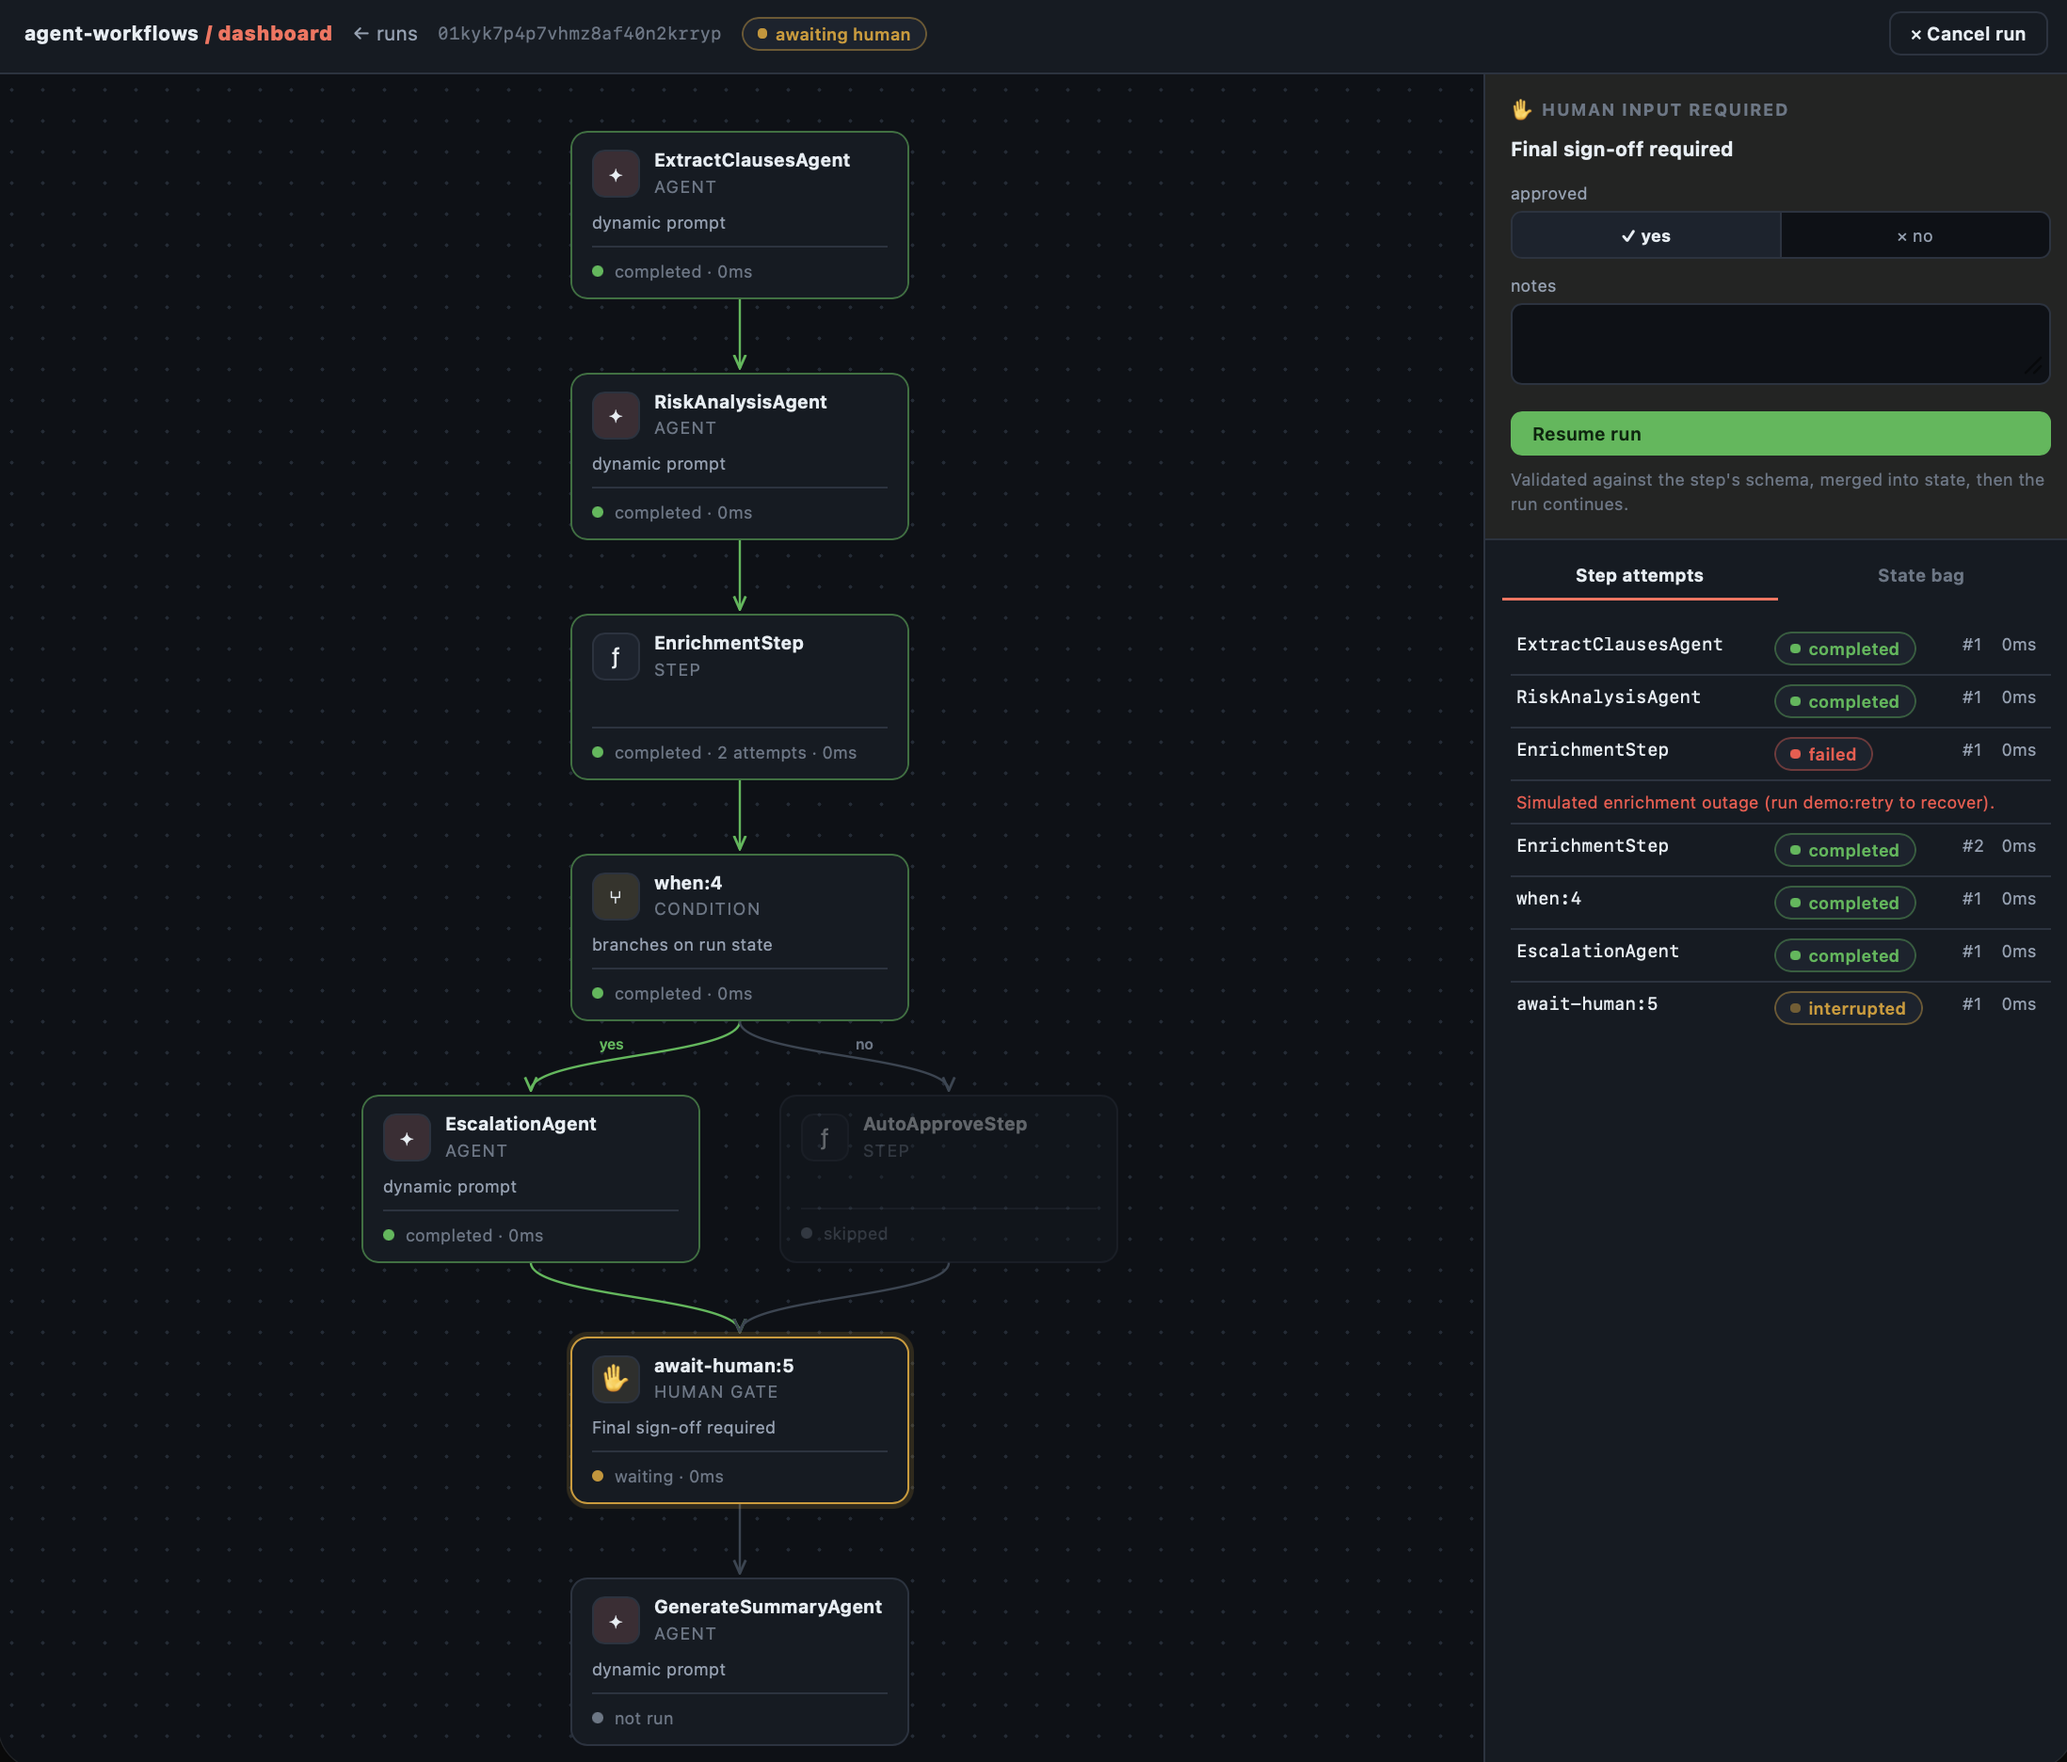
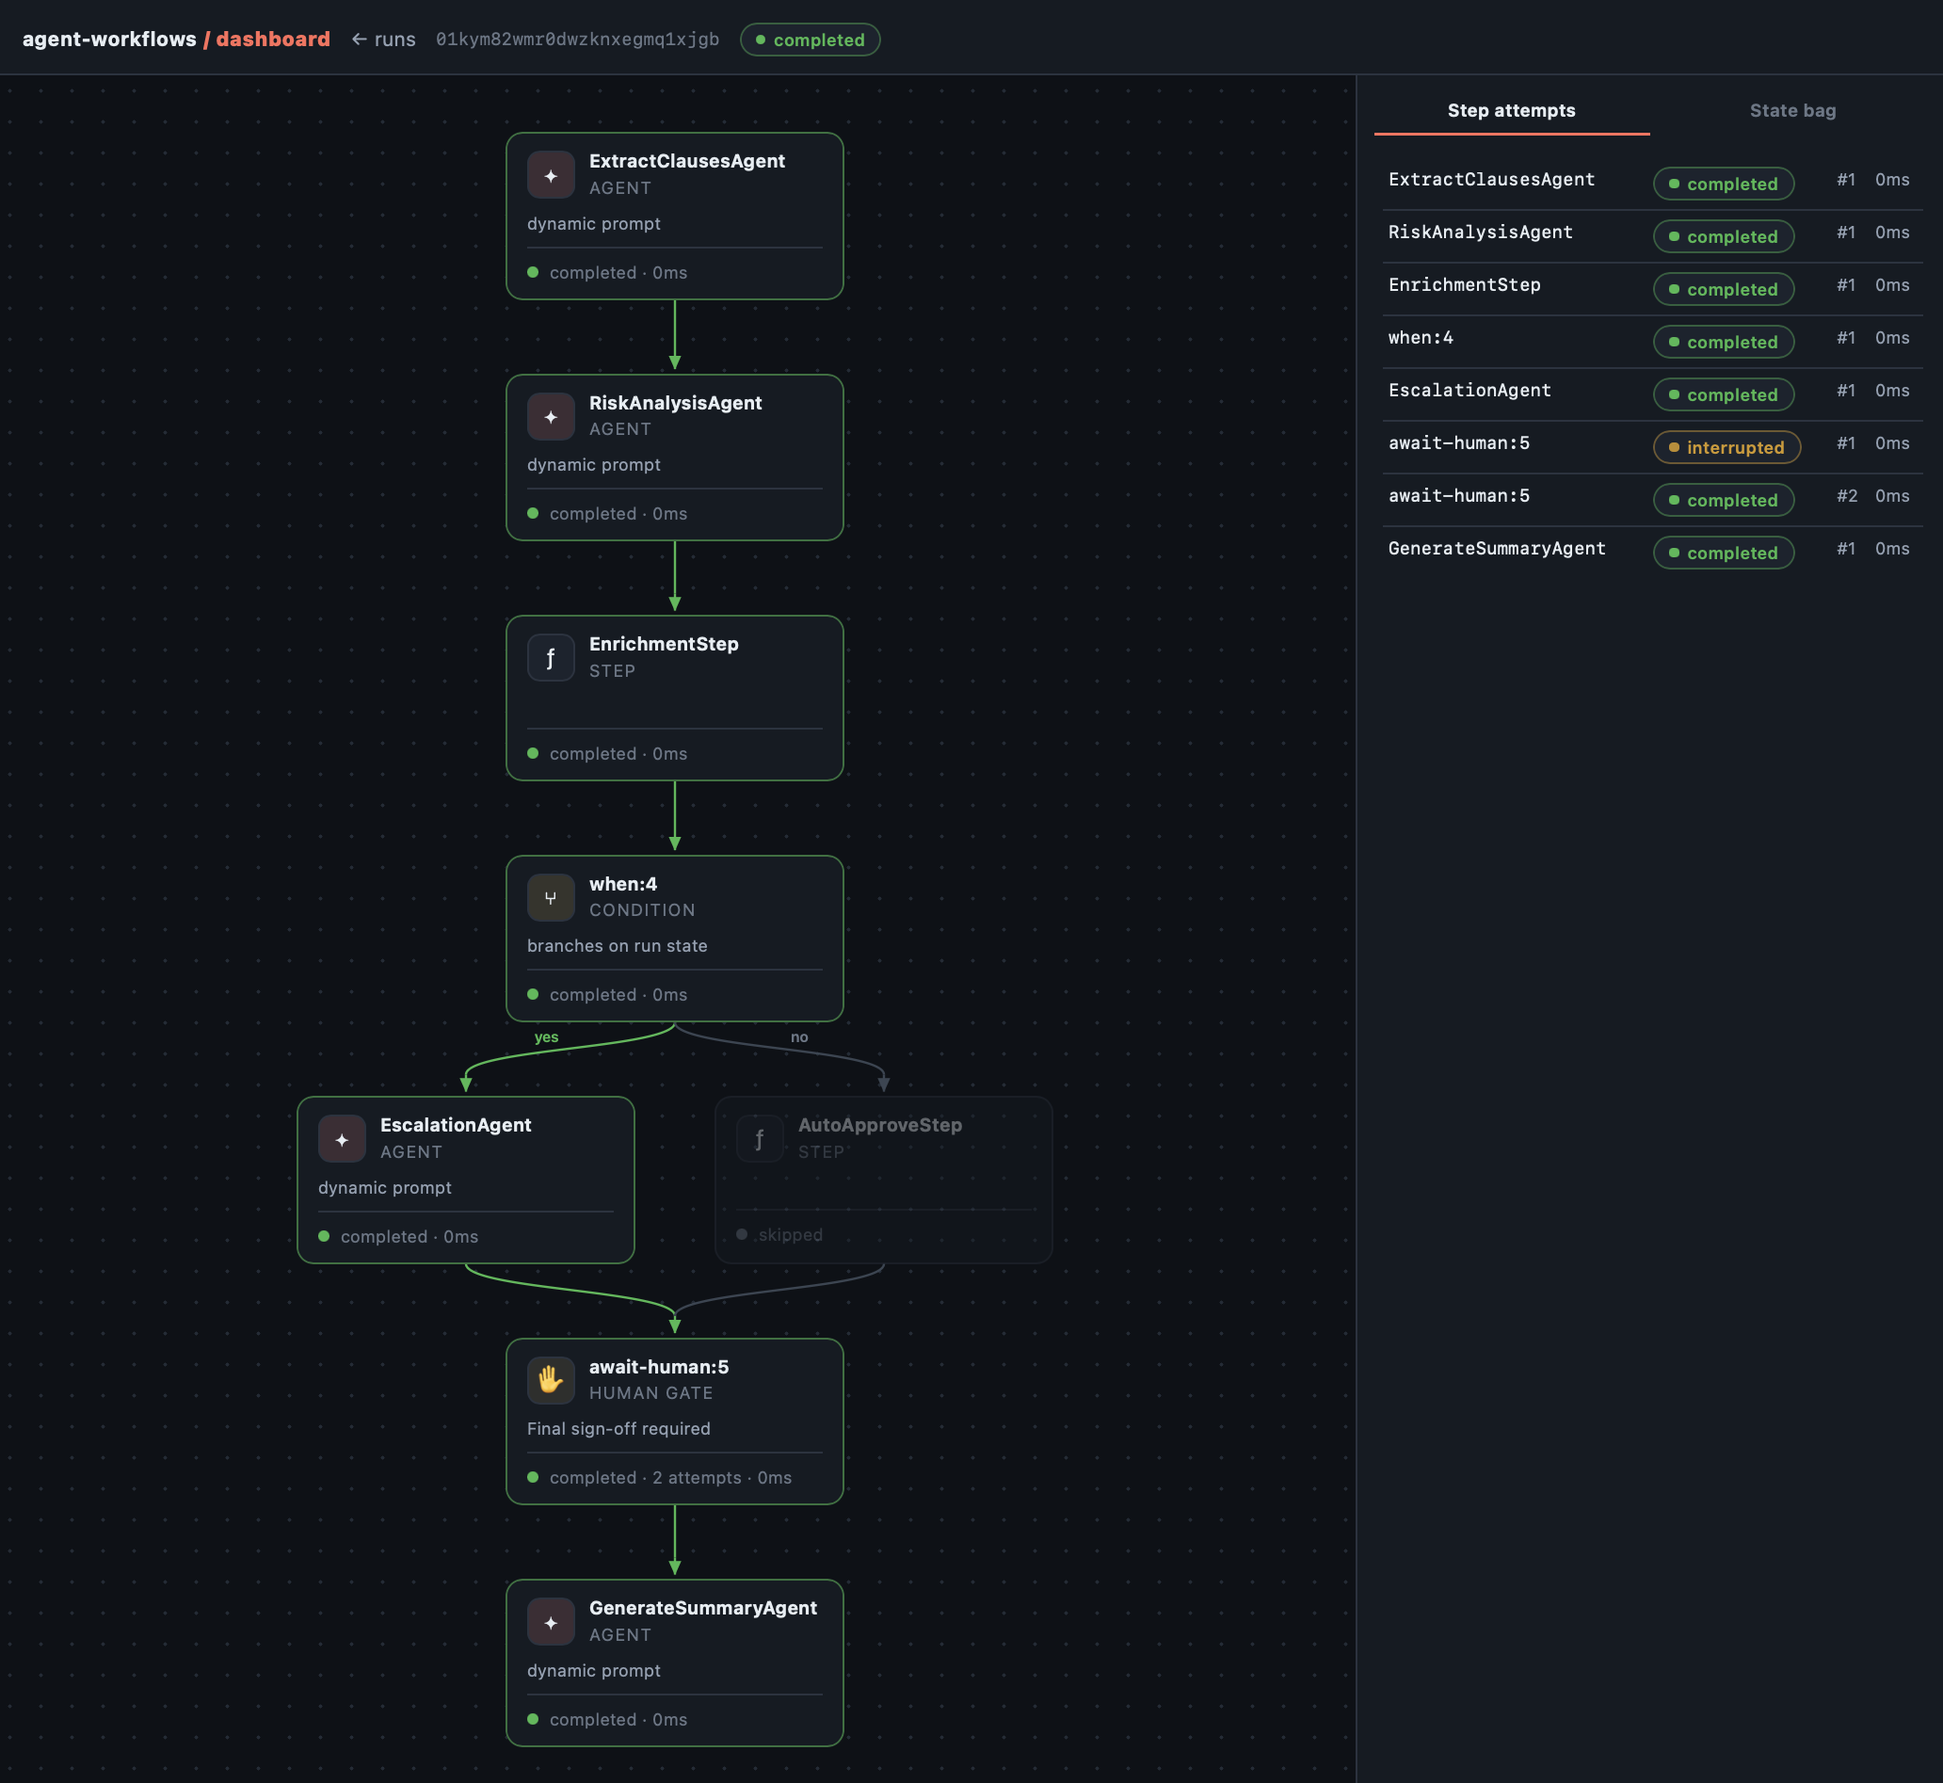
Refresh the README screenshot
A completed run with the current edge rendering: junction-merged
branch fan-in, filled arrowheads, and the retried human gate visible
in the audit trail.

diff --git a/README.md b/README.md
@@ -2,9 +2,9 @@
 
 A dashboard for [`timmcleod/agent-workflows`](https://github.com/timmcleod/agent-workflows). Install it alongside the core package and get a live view of every workflow run: the definition rendered as a flowchart with each step's status overlaid, the step-by-step audit trail with attempts and token counts, and the checkpointed state bag.
 
-![The dashboard: a run paused at a human sign-off gate, with the taken branch highlighted, a failed-then-retried step in the audit trail, and the approval form generated from the step's schema](https://raw.githubusercontent.com/timmcleod/agent-workflows-ui/main/art/dashboard.png)
+![The dashboard: a completed run rendered as a flowchart, the taken branch highlighted and the untaken branch dimmed, with the step-attempt audit trail alongside](https://raw.githubusercontent.com/timmcleod/agent-workflows-ui/main/art/dashboard.png)
 
-One run, most of the package: this workflow failed at its enrichment step (attempt #1, error inline), was retried from the checkpoint — note the agent steps above it still show a single attempt; their tokens were paid once — took the high-risk escalation branch (the auto-approve branch dimmed as skipped), and is now parked at the amber human gate. The form on the right was generated from the step's validation rules; submitting it resumes the run.
+One run, most of the package: this workflow took the high-risk escalation branch (the auto-approve branch dimmed as skipped), parked at the human gate — the audit trail shows the gate interrupted on attempt #1, then completed on attempt #2 after sign-off arrived via `resume()` — and finished with the summary agent. Note every step shows exactly one execution: checkpointed results are never re-run, and their tokens are never paid twice.
 
 It is not read-only where it matters:
 
